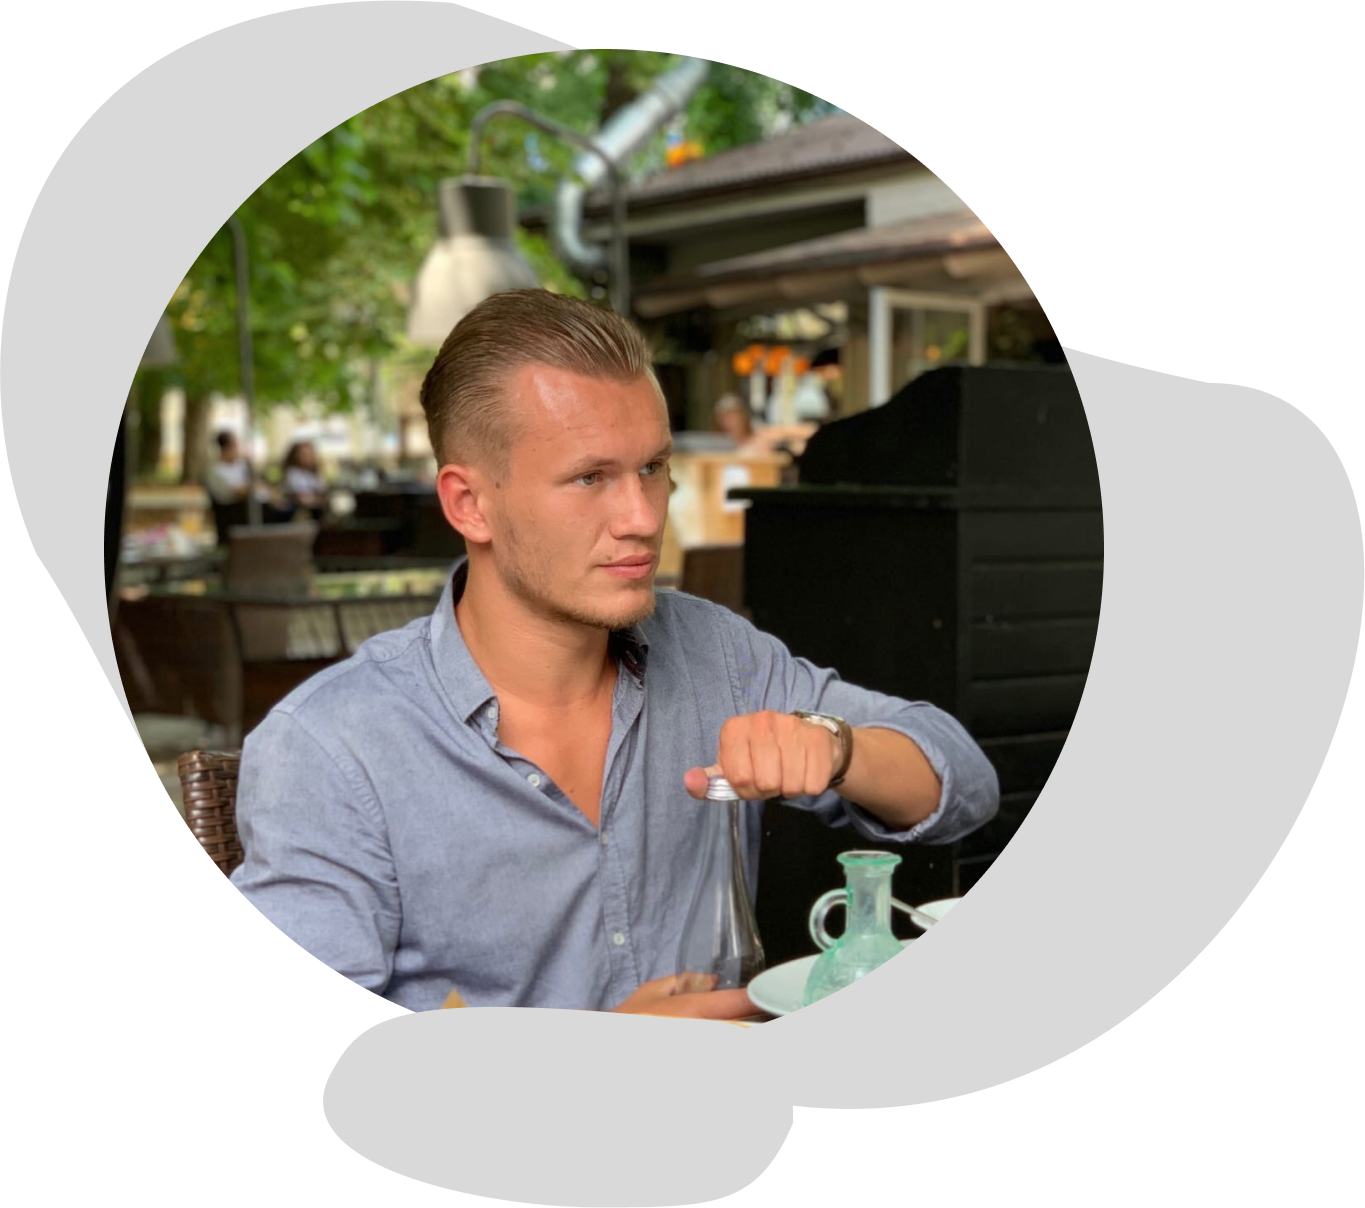
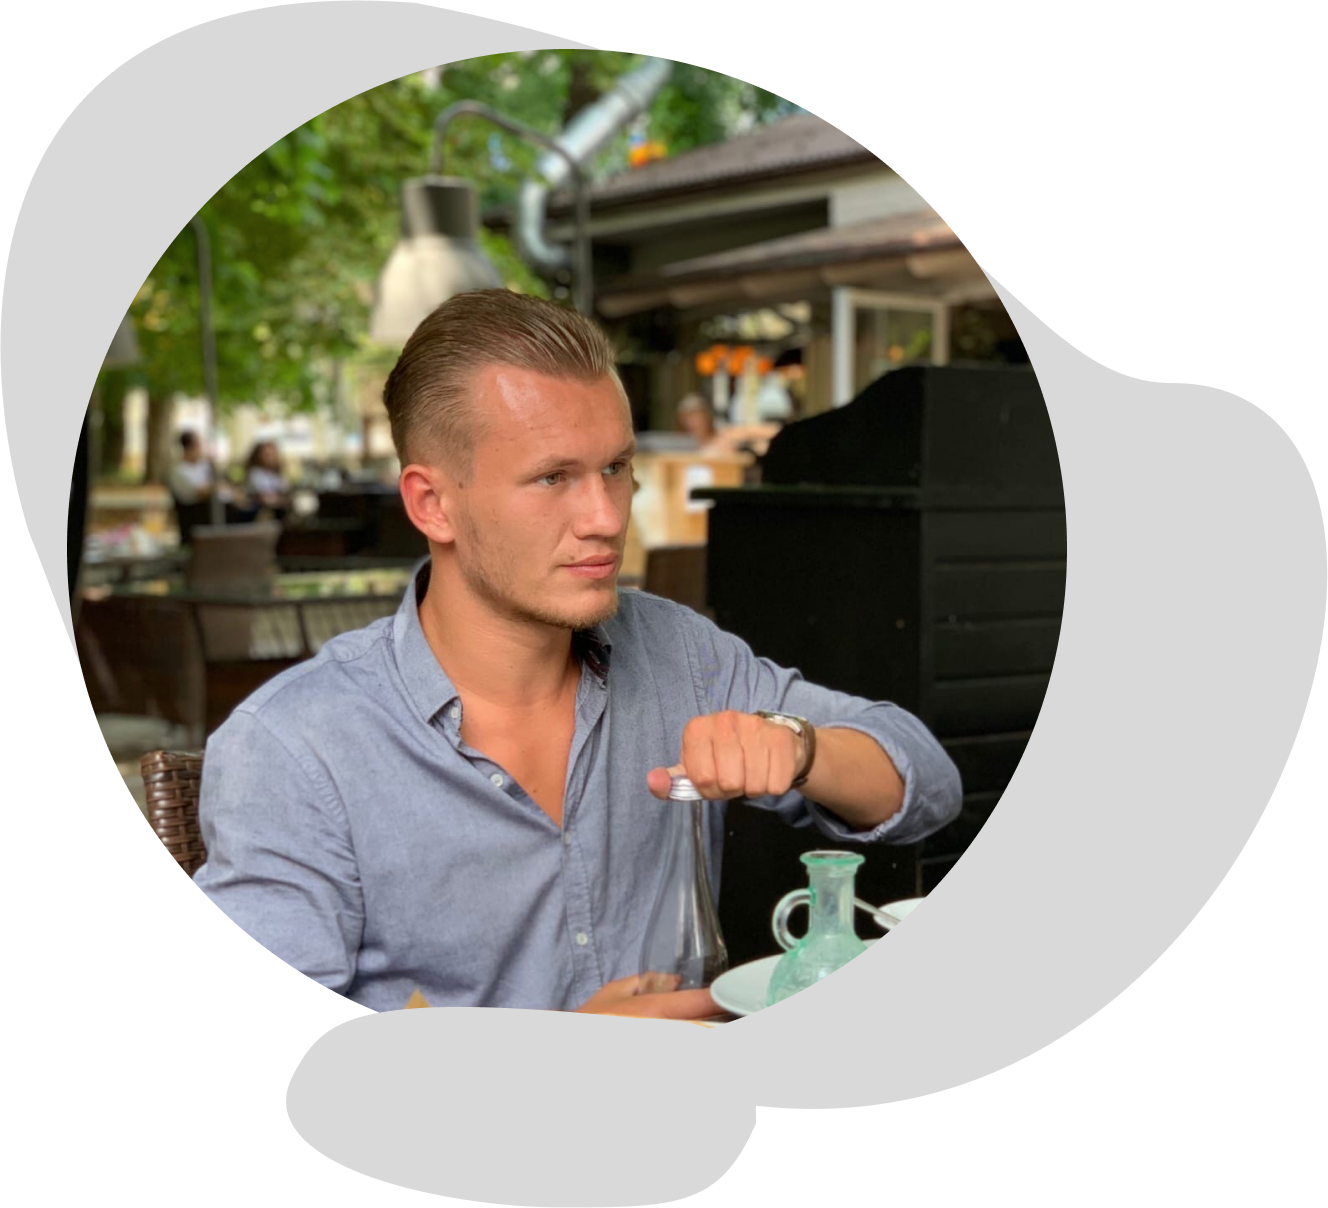
animatedAbout

diff --git a/src/componentes/AboutMe.scss b/src/componentes/AboutMe.scss
@@ -11,10 +11,23 @@
   &__image-wrap {
     display: flex;
     justify-content: center;
+    max-width: 370px;
+  }
+
+  &__animated {
+    position: absolute;
+    width: 10px;
+    height: 10px;
+    border-radius: 50%;
+    opacity: 0.95;
+    background-color: #0ACF00;
+    transform: translate(80px, 0px);
+    animation: aboutAnimated infinite 18s ease;
   }
 
   &__image {
     width: 85%;
+    position: relative;
   }
 
   &__text {
@@ -28,5 +41,53 @@
     span {
       color: #0ACF00;
     }
+  }
+}
+
+
+@keyframes aboutAnimated {
+  0% {
+    transform: translate(80px, 0px);
+    z-index: 1;
+  }
+  12.5% {
+    transform: translate(10px, 130px);
+  }
+  25% {
+    transform: translate(0px, 60px);
+  }
+  37.5% {
+    transform: translate(-50px, 50px);
+    
+  }
+  50% {
+    transform: translate(-80px, 100px);
+    z-index: 1;
+    width: 10px;
+    height: 10px;
+  }
+  62.5% {
+    transform: translate(-60px, 140px);
+  }
+  72% {
+    transform: translate(100px, 250px);
+    width: 28px;
+    height: 28px;
+    z-index: 1;
+  }
+  73% {
+    z-index: -1;
+  }
+  87.5% {
+    transform: translate(-100px, -20px);
+    z-index: -1;
+  }
+  95% {
+    transform: translate(30px, -50px);
+    z-index: -1;
+  }
+  100% {
+    transform: translate(80px, 0px);
+    z-index: 1;
   }
 }

diff --git a/src/componentes/AboutMe.jsx b/src/componentes/AboutMe.jsx
@@ -7,12 +7,17 @@ function AboutMe() {
       <div className="aboutme__wrapper container">
         <div className="aboutme__image-wrap">
           <img src={me} alt="Me" className="aboutme__image" />
+          <div className="aboutme__animated"></div>
         </div>
         <div className="aboutme__text">
           <h2 className="aboutme__title">
             About <span>me</span>
           </h2>
-          <p className="aboutme__subtitle">Hi. I'm Alexandr, and you?</p>
+          <p className="aboutme__subtitle">
+            Hi. I'm Alexandr, and you? I'm twenty six years old, if you're
+            interested, but it doesn't matter anymore. I love to see the results
+            of my work. Sport is my hobby. Okay, enough about me.
+          </p>
         </div>
       </div>
     </section>

diff --git a/src/componentes/Main.jsx b/src/componentes/Main.jsx
@@ -50,7 +50,6 @@ function Main() {
         <div className="popup__bgr" onClick={popupMain}></div>
         <div className="popup__wrapper">
           <div className="popup__exit-wrapper">
-            <div className="popup__animation"></div>
             <div className="popup__exit" onClick={popupMain}>
               <span className="popup__line"></span>
               <span className="popup__line"></span>

diff --git a/src/componentes/Main.scss b/src/componentes/Main.scss
@@ -117,6 +117,7 @@
 
     &__exit-wrapper {
         display: flex;
+        justify-content: flex-end;
         width: 100%;
     }
 
